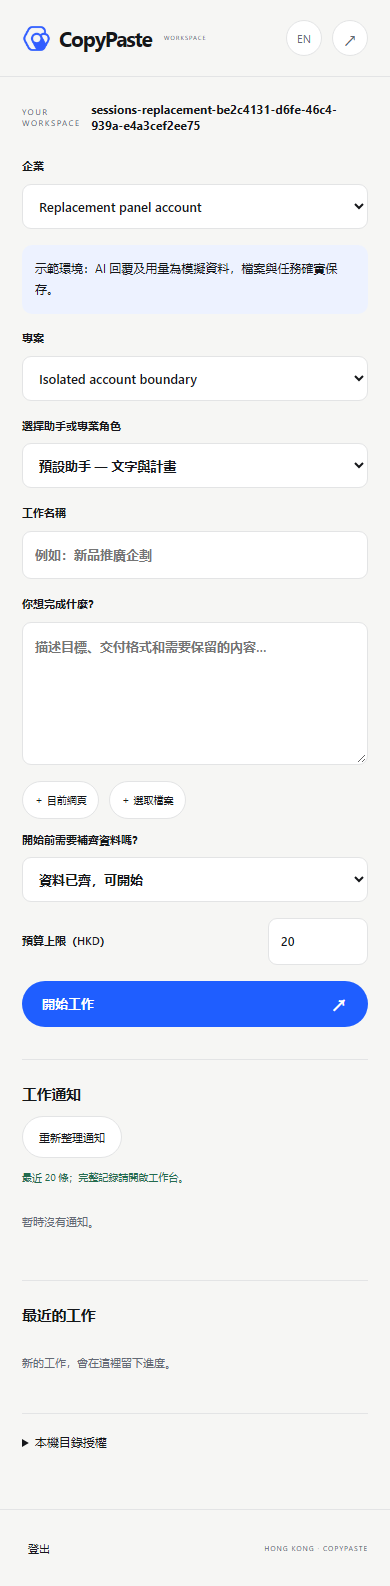
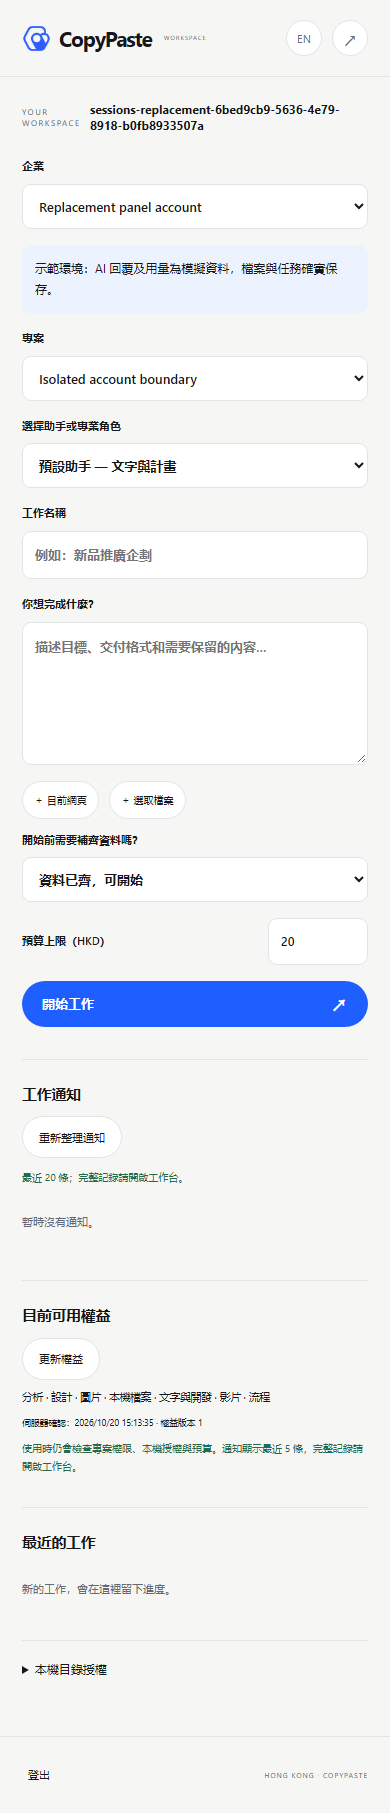
Show authenticated live entitlements in the native side panel

diff --git a/src/panel.ts b/src/panel.ts
@@ -8,6 +8,7 @@ let notificationTimer: ReturnType<typeof setInterval> | undefined;
 let pending: { fingerprint: string; id: string } | null = null;
 let workspaceRevision = 0,
   notificationRevision = 0;
+let entitlementRevision = 0;
 let dependencyRevision = 0,
   dependencyFingerprint = "";
 let taskDrawRevision = 0;
@@ -72,6 +73,8 @@ function resetSignedOut() {
     "task-output",
     "user-name",
     "local-preview",
+    "entitlement-summary",
+    "entitlement-notices",
   ])
     $(id).replaceChildren();
   localFile = null;
@@ -102,7 +105,14 @@ const request = (
   method = "GET",
   body?: unknown,
   idempotencyKey?: string,
-) => send("API", { path, method, body, idempotencyKey });
+) =>
+  send("API", {
+    path,
+    method,
+    body,
+    idempotencyKey,
+    tenantId: tenant || undefined,
+  });
 function showError(e: unknown) {
   $("error").textContent = e instanceof Error ? e.message : String(e);
   $("error").hidden = false;
@@ -190,11 +200,16 @@ async function populateWorkspace() {
     ],
     "assistant",
   );
-  notificationTimer = setInterval(() => void run(notifications), 15000);
+  notificationTimer = setInterval(() => {
+    void run(notifications);
+    void entitlements();
+  }, 15000);
   await projects();
   if (revision === workspaceRevision) $("workspace").hidden = false;
 }
 async function projects() {
+  $("entitlement-summary").replaceChildren();
+  $("entitlement-notices").replaceChildren();
   const scope = tenant,
     revision = workspaceRevision;
   const d = await request(`/v1/tenants/${scope}/projects`);
@@ -210,7 +225,109 @@ async function projects() {
     me.memberships.find((m: any) => m.id === tenant)?.data_mode !== "simulated";
   await tasks();
   await notifications();
+  await entitlements();
 }
+async function entitlements() {
+  const scope = tenant,
+    revision = workspaceRevision,
+    load = ++entitlementRevision,
+    summary = $("entitlement-summary"),
+    notices = $("entitlement-notices");
+  summary.replaceChildren();
+  notices.replaceChildren();
+  if (!scope) return;
+  try {
+    const [current, inbox] = await Promise.all([
+      request("/v1/effective-entitlements"),
+      request("/v1/entitlement-notifications?limit=5"),
+    ]);
+    if (
+      scope !== tenant ||
+      revision !== workspaceRevision ||
+      load !== entitlementRevision
+    )
+      return;
+    const names: Record<string, [string, string]> = {
+      text: ["文字與開發", "Text & development"],
+      image: ["圖片", "Images"],
+      video: ["影片", "Video"],
+      design: ["設計", "Design"],
+      analytics: ["分析", "Analytics"],
+      workflow: ["流程", "Workflows"],
+      local_files: ["本機檔案", "Local files"],
+    };
+    const text = document.createElement("p");
+    text.textContent =
+      current.feature_ids
+        .map((id: string) => (names[id] ? tr(...names[id]) : id))
+        .join(" · ") ||
+      tr("目前方案未開啟功能。", "No features enabled by the current plan.");
+    summary.append(text);
+    const at = document.createElement("small");
+    at.textContent =
+      tr("伺服器確認：", "Server confirmed: ") +
+      new Date(current.as_of).toLocaleString() +
+      " · " +
+      tr("權益版本 ", "Entitlement version ") +
+      current.entitlement_version;
+    summary.append(at);
+    if (current.expires_at) {
+      const end = document.createElement("p");
+      end.textContent =
+        tr("下一個權益變更：", "Next access boundary: ") +
+        new Date(current.expires_at).toLocaleString();
+      summary.append(end);
+    }
+    const kinds: Record<string, [string, string]> = {
+      changed: ["權益已更新", "Entitlements updated"],
+      starts: ["授予已生效", "Grant started"],
+      expires: ["授予已到期", "Grant expired"],
+      replaced: ["方案已取代", "Plan replaced"],
+    };
+    for (const notice of inbox.items) {
+      const row = document.createElement("p");
+      row.textContent =
+        (kinds[notice.kind] ? tr(...kinds[notice.kind]) : notice.kind) +
+        " · " +
+        new Date(notice.available_at).toLocaleString();
+      if (!notice.read) {
+        const mark = document.createElement("button");
+        mark.className = "secondary";
+        mark.textContent = tr("標示已讀", "Mark read");
+        mark.addEventListener(
+          "click",
+          () =>
+            void run(async () => {
+              mark.disabled = true;
+              try {
+                await request(
+                  "/v1/entitlement-notifications/" + notice.id,
+                  "PATCH",
+                  { read: true },
+                );
+                await entitlements();
+              } finally {
+                mark.disabled = false;
+              }
+            }),
+        );
+        row.append(mark);
+      }
+      notices.append(row);
+    }
+  } catch (e) {
+    if (
+      scope === tenant &&
+      revision === workspaceRevision &&
+      load === entitlementRevision
+    )
+      summary.textContent =
+        e instanceof Error
+          ? e.message
+          : tr("暫時未能確認權益。", "Access could not be confirmed.");
+  }
+}
+$("refresh-entitlements").addEventListener("click", () => void entitlements());
 async function notifications() {
   const scope = tenant,
     list = $("notification-list"),
@@ -989,6 +1106,10 @@ const translations: Record<string, string> = {
   取消工作: "Cancel task",
   最近的工作: "Recent tasks",
   工作通知: "Work notifications",
+  目前可用權益: "Current entitlements",
+  更新權益: "Refresh access",
+  "使用時仍會檢查專案權限、本機授權與預算。通知顯示最近 5 條，完整記錄請開啟工作台。":
+    "Project permissions, local consent and budget still apply. Latest 5 notifications; open the workspace for the complete inbox.",
   重新整理通知: "Refresh notifications",
   "最近 20 條；完整記錄請開啟工作台。":
     "Latest 20; open the full workspace for the complete inbox.",
@@ -1033,7 +1154,10 @@ async function applyLocale() {
       locale === "en"
         ? "Default assistant — text and plans"
         : "預設助手 — 文字與計畫";
-  if (tenant) await notifications();
+  if (tenant) {
+    await notifications();
+    await entitlements();
+  }
   if (task) await refreshTask(task);
 }
 $("locale").addEventListener(

diff --git a/src/background.ts b/src/background.ts
@@ -120,7 +120,10 @@ async function request(
   method = "GET",
   body?: unknown,
   idempotencyKey?: string,
+  tenantId?: string,
 ) {
+  if (tenantId !== undefined && !/^[a-f0-9-]{36}$/i.test(tenantId))
+    throw new Error("Invalid workspace identity");
   if (
     idempotencyKey !== undefined &&
     !/^[0-9a-f]{8}-[0-9a-f]{4}-[0-9a-f]{4}-[0-9a-f]{4}-[0-9a-f]{12}$/i.test(
@@ -133,6 +136,7 @@ async function request(
     Authorization: `Bearer ${t.access_token}`,
     "Idempotency-Key": idempotencyKey ?? crypto.randomUUID(),
   };
+  if (tenantId) headers["X-Tenant-ID"] = tenantId;
   if (body !== undefined) headers["Content-Type"] = "application/json";
   const response = await fetch(safePath(path), {
     method,
@@ -243,6 +247,7 @@ chrome.runtime.onMessage.addListener((message, sender, respond) => {
         message.method,
         message.body,
         message.idempotencyKey,
+        message.tenantId,
       );
     }
     if (message.type === "UPLOAD") return upload(message.path, message.file);

diff --git a/public/sidepanel.html b/public/sidepanel.html
@@ -124,6 +124,18 @@
           <div id="notification-list"></div>
         </section>
         <section class="recent">
+          <h2 id="entitlement-heading">目前可用權益</h2>
+          <button id="refresh-entitlements" class="secondary" type="button">
+            更新權益
+          </button>
+          <div id="entitlement-summary" aria-live="polite"></div>
+          <p class="hint" id="entitlement-hint">
+            使用時仍會檢查專案權限、本機授權與預算。通知顯示最近 5
+            條，完整記錄請開啟工作台。
+          </p>
+          <div id="entitlement-notices"></div>
+        </section>
+        <section class="recent">
           <h2>最近的工作</h2>
           <div id="task-list"></div>
         </section>

diff --git a/README.en.md b/README.en.md
@@ -163,3 +163,24 @@ These are actual MV3 business documents. The separate 10/10 native SIDE_PANEL ac
 After the refund increment, current-source Web membership passes 6/6 (169 sources), Admin membership 6/6 (196), and Web/source Electron/MV3 authentication 12/12 (775), with unchanged source hashes and owned credential/process cleanup. The initial Electron debugging connection timeout is retained; the same source passed the rerun. Frameless Desktop and native Side Panel preview bytes are unchanged. Full packaged authentication and system acceptance remain separate.
 
 Current-source verification after the immutable-plan increment (2026-10-20): Web membership 6/6 (172 source files), Admin membership 6/6 (200), and Web/source Electron/MV3 authentication 12/12 (779). Source digests match before and after each run; owned browsers, Electron and extension instances are closed and test credentials cleared. Immutable definitions and frozen legacy bindings do not change the native preview packages. Complete VIP/quota behavior, packaged authentication and system acceptance remain tracked in the main documentation.
+
+## Current native right Side Panel and entitlement sync
+
+Clicking the toolbar action opens a real browser `SIDE_PANEL` on the right and reduces the page width, without a popup or additional ordinary tab. Another click closes it. Navigation and tab changes retain the same panel document, and a browser restart restores its entry behavior. The rebuilt extension and frameless Desktop pass ten native-surface checks and six actual login/VIP integration groups.
+
+```mermaid
+flowchart LR
+  Action[Toolbar action] --> Panel[Native right Side Panel]
+  Panel --> Auth[Real browser PKCE sign-in]
+  Auth --> Background[Authenticated background and current tenant]
+  Background --> API[Current rights from company server]
+  API --> View[Features confirmation revision and five notices]
+  Logout[Sign out or account switch] --> Fence[Clear caches and fence late replies]
+```
+
+Manual and 15-second refresh show server-merged personal/current-workspace rights. Project/file authorization and budget still apply. Reading a notice does not grant capabilities. Actual integration verifies that a Desktop read action updates the same persistent notification observed from the panel, suspension restores the real free plan, and sign-out clears credentials. Nineteen unit checks pass; full Native Host large-file, installation/publication and production acceptance remain open.
+
+![Actual native SIDE_PANEL with granted rights](assets/screenshots/15-vip-effective-rights.png)
+![Actual server entitlement revision after suspension](assets/screenshots/16-vip-suspended-rights.png)
+
+Verification triggers the actual browser action and attaches CDP to the native panel; an ordinary `sidepanel.html` tab is not substituted. Build with `npm run build`, then load `dist/` from Chrome's extension manager. The adjacent Delivery repository records the current ZIP and byte digests with `package:surfaces`.
